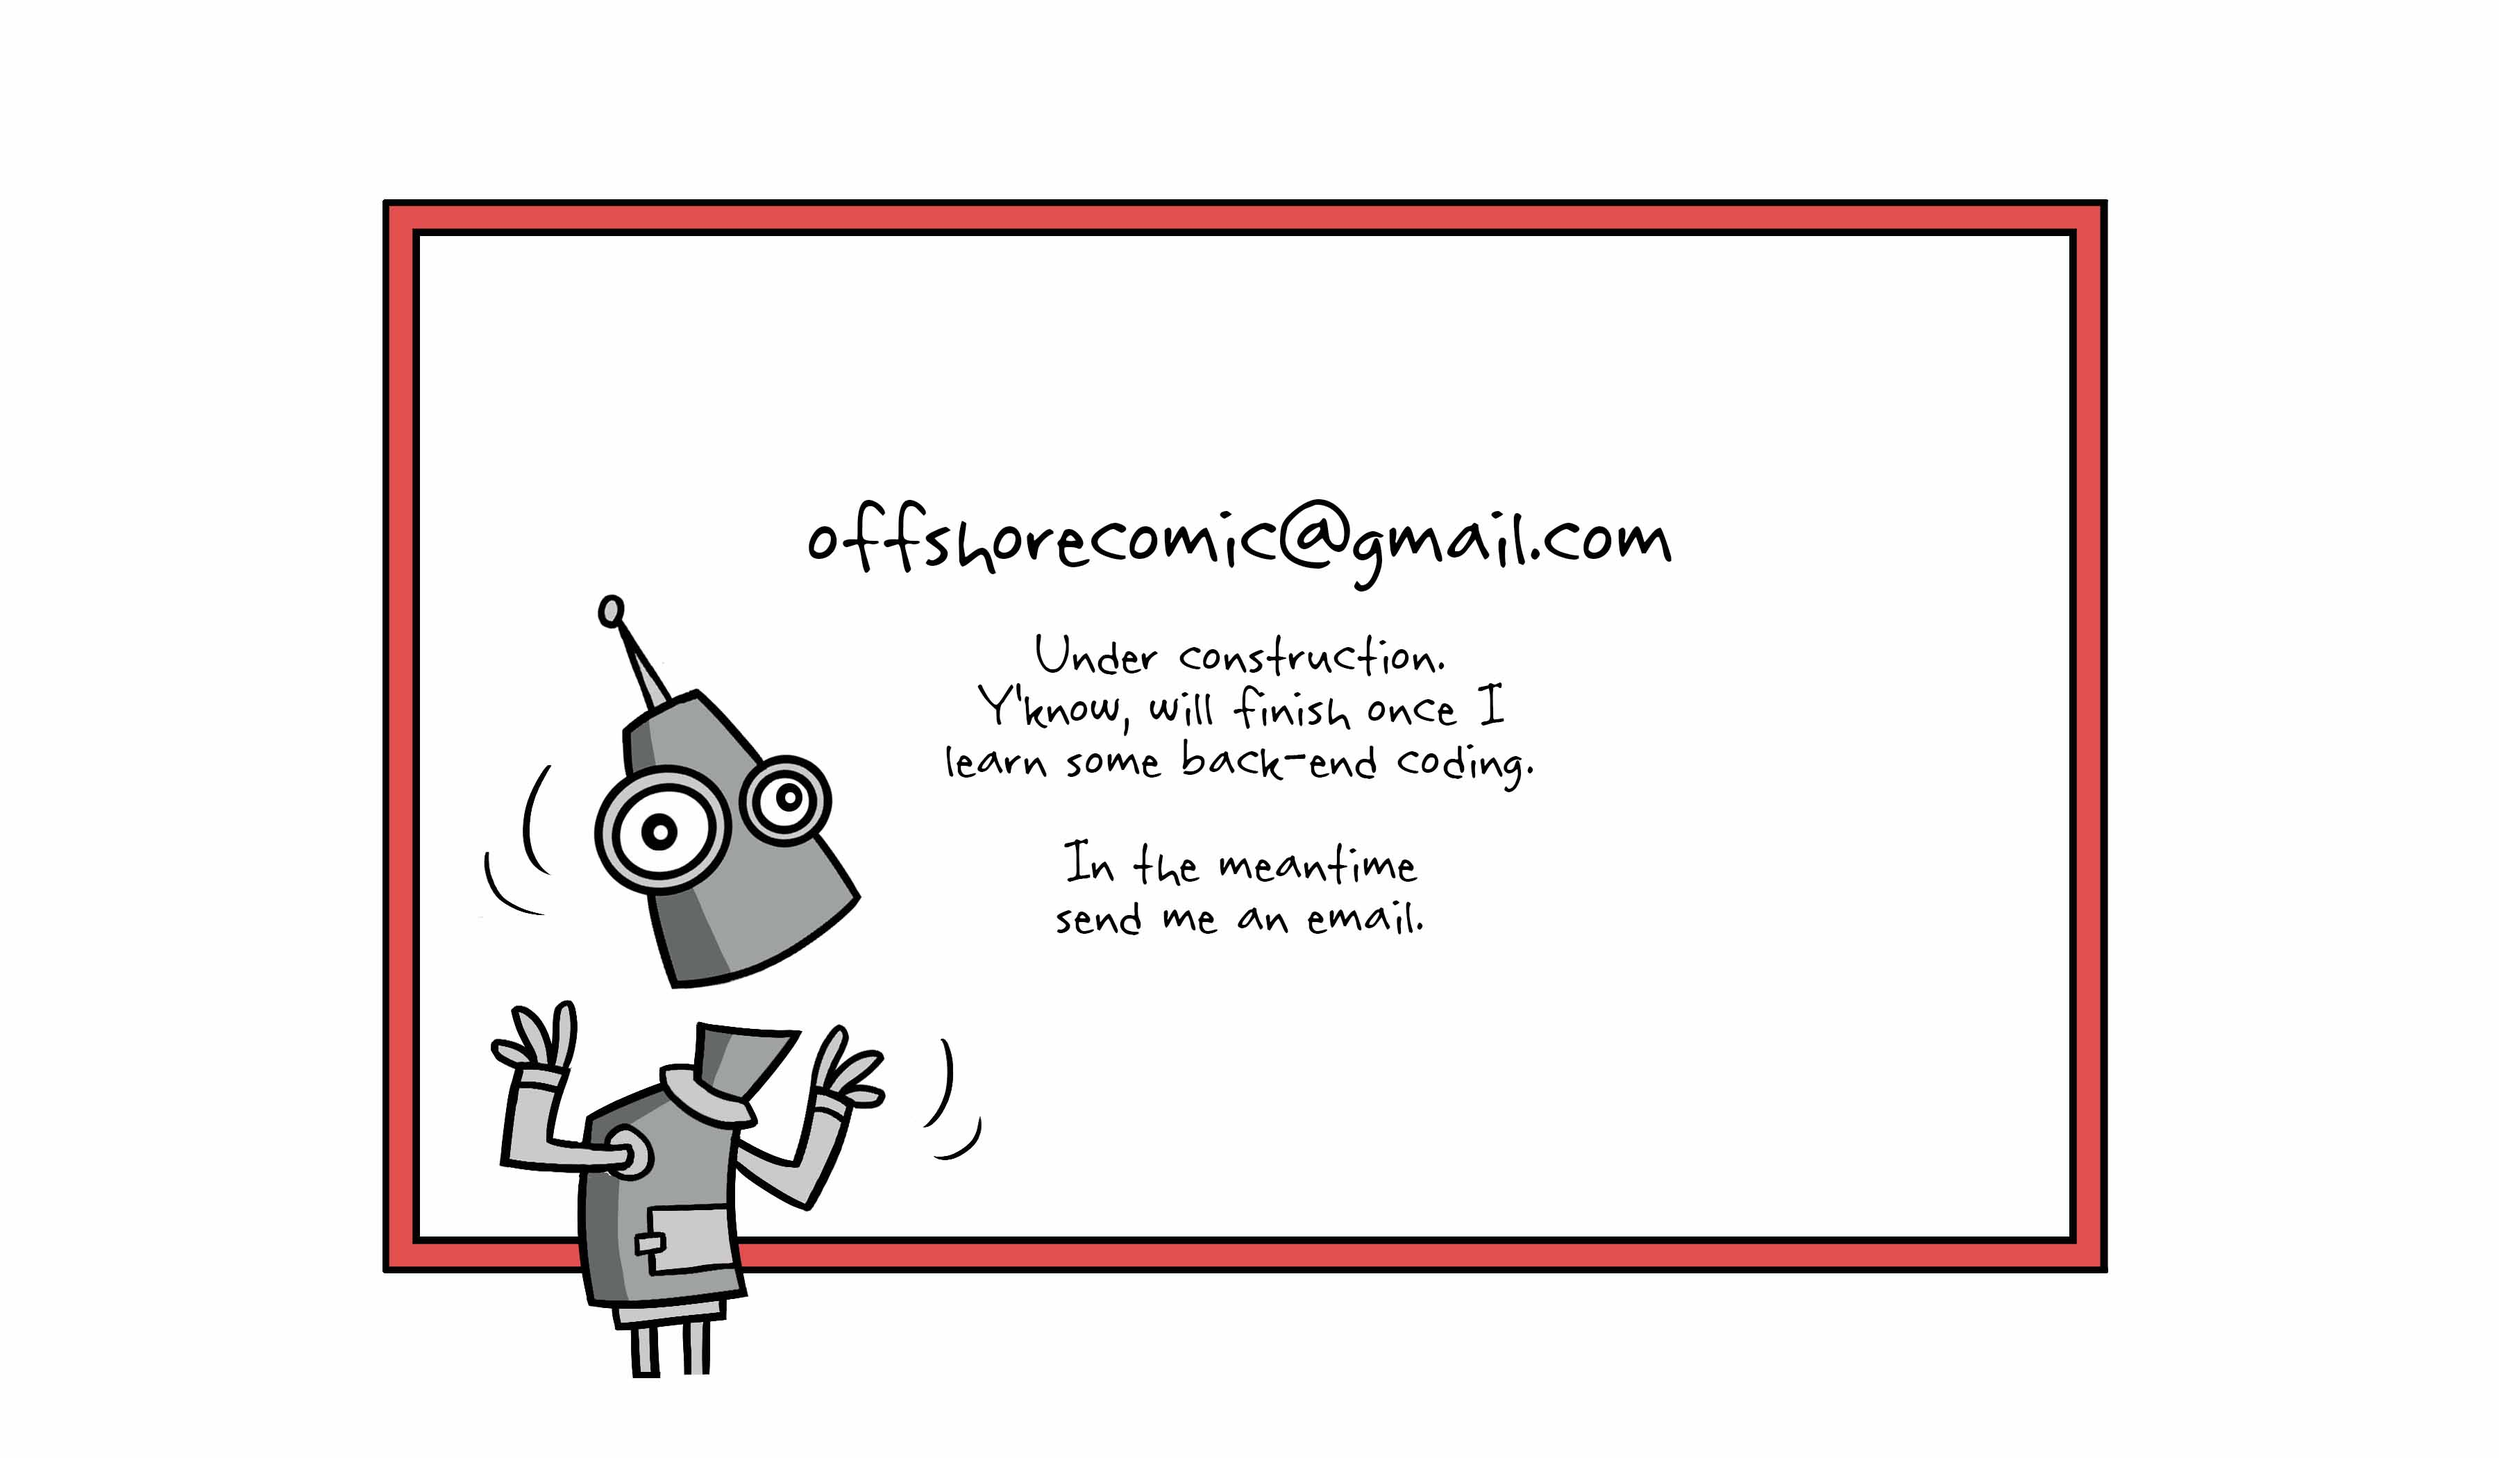
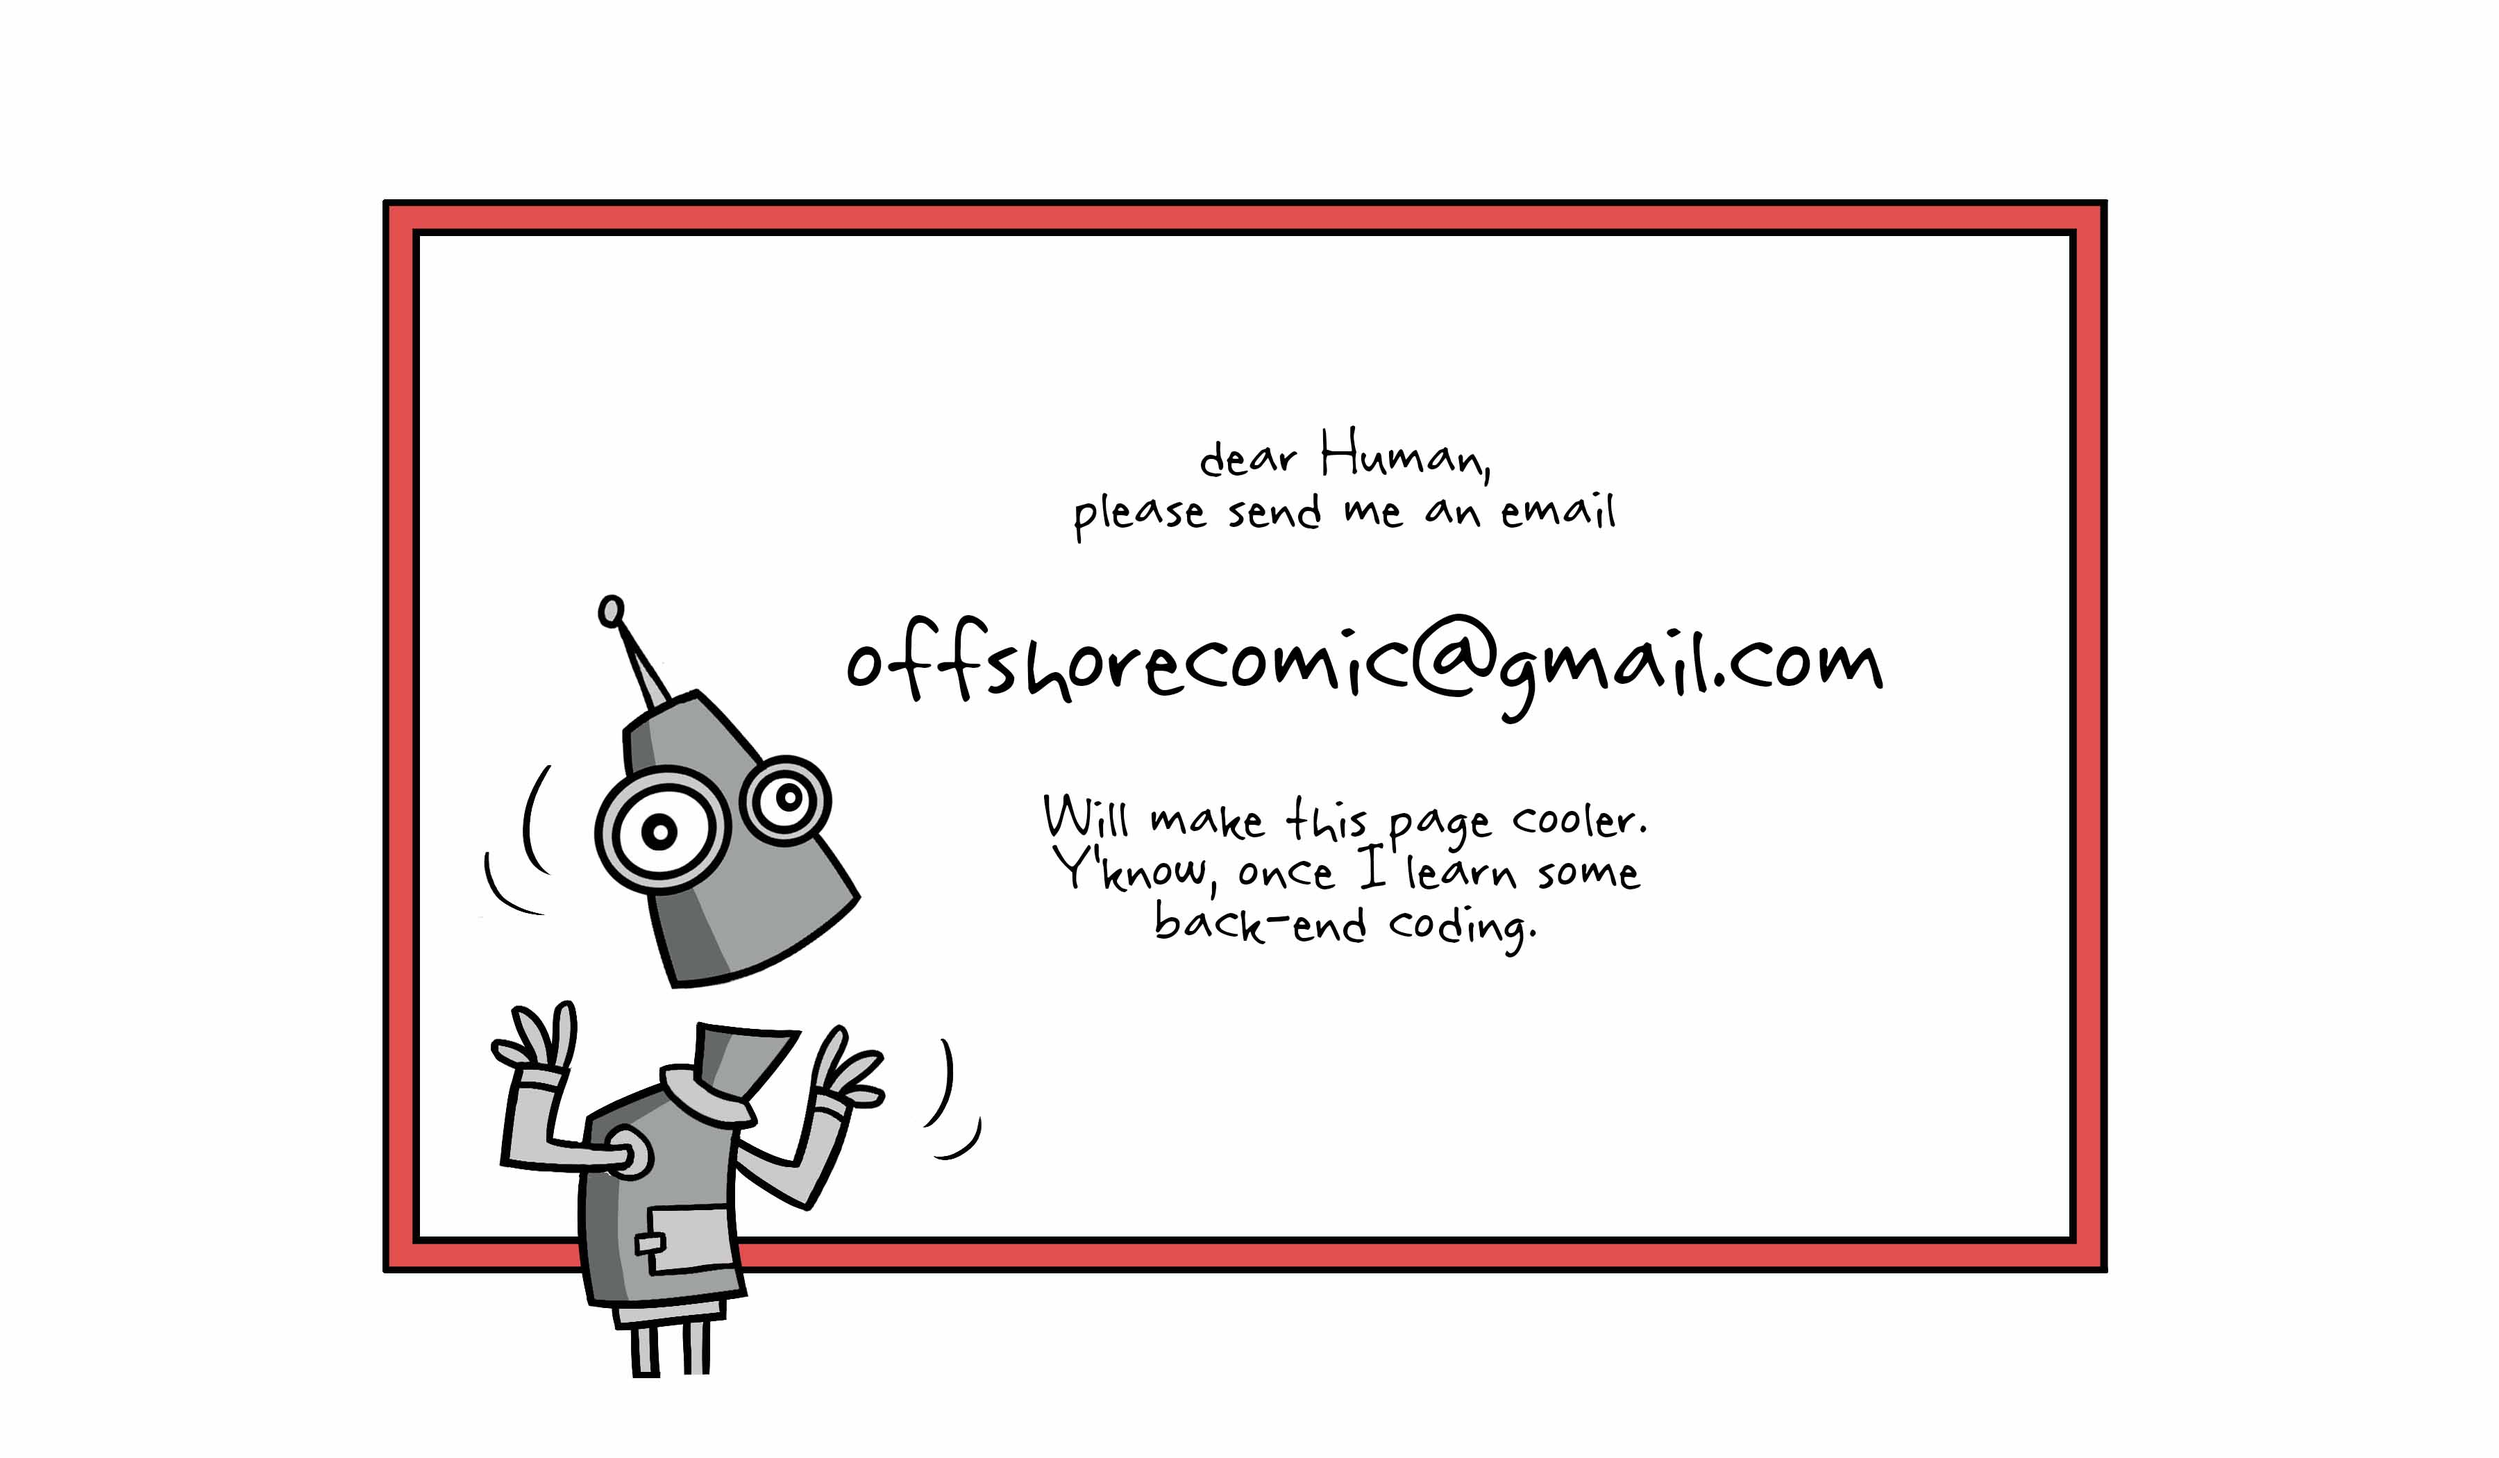
Added a new strip to the image file and updated JS and HTML accordingly.

Changed region(s): [[0.3422, 0.3095, 0.7467, 0.65]]

diff --git a/myscripts.js b/myscripts.js
@@ -1,4 +1,4 @@
-var Strips = ["images/S206.jpg","images/S205.jpg","images/S204.jpg","images/S203.jpg","images/S202.jpg","images/S201.jpg","images/S200.jpg","images/S199.jpg","images/S198.jpg","images/S197.jpg","images/S196.jpg","images/S195.jpg","images/S194.jpg","images/S193.jpg","images/S192.jpg","images/S191.jpg","images/S190.jpg","images/S189.jpg","images/S188.jpg","images/S187.jpg","images/S186.jpg","images/S185.jpg","images/S184.jpg","images/S183.jpg","images/S182.jpg","images/S181.jpg","images/S180.jpg","images/S179.jpg","images/S178.jpg","images/S177.jpg","images/S176.jpg","images/S175.jpg","images/S174.jpg","images/S173.jpg","images/S172.jpg","images/S171.jpg","images/S170.jpg","images/S169.jpg","images/S168.jpg","images/S167.jpg","images/S166.jpg","images/S165.jpg","images/S164.jpg","images/S163.jpg","images/S162.jpg","images/S161.jpg","images/S160.jpg","images/S159.jpg","images/S158.jpg","images/S157.jpg","images/S156.jpg","images/S155.jpg","images/S154.jpg","images/S153.jpg","images/S152.jpg","images/S151.jpg","images/S150.jpg","images/S149.jpg","images/S148.jpg","images/S147.jpg","images/S146.jpg","images/S145.jpg","images/S144.jpg","images/S143.jpg","images/S142.jpg","images/S141.jpg","images/S140.jpg","images/S139.jpg","images/S138.jpg","images/S137.jpg","images/S136.jpg","images/S135.jpg","images/S134.jpg","images/S133.jpg","images/S132.jpg","images/S131.jpg","images/S130.jpg","images/S129.jpg","images/S128.jpg","images/S127.jpg","images/S126.jpg","images/S125.jpg","images/S124.jpg","images/S123.jpg","images/S122.jpg","images/S121.jpg","images/S120.jpg","images/S119.jpg","images/S118.jpg","images/S117.jpg","images/S116.jpg","images/S115.jpg","images/S114.jpg","images/S113.jpg","images/S112.jpg","images/S111.jpg","images/S110.jpg","images/S109.jpg","images/S108.jpg","images/S107.jpg","images/S106.jpg","images/S105.jpg","images/S104.jpg","images/S103.jpg","images/S102.jpg","images/S101.jpg","images/S100.jpg","images/S99.jpg","images/S98.jpg","images/S97.jpg","images/S96.jpg","images/S95.jpg","images/S94.jpg","images/S93.jpg","images/S92.jpg","images/S91.jpg","images/S90.jpg","images/S89.jpg","images/S88.jpg","images/S87.jpg","images/S86.jpg","images/S85.jpg","images/S84.jpg","images/S83.jpg","images/S82.jpg","images/S81.jpg","images/S80.jpg","images/S79.jpg","images/S78.jpg","images/S77.jpg","images/S76.jpg","images/S75.jpg","images/S74.jpg","images/S73.jpg","images/S72.jpg","images/S71.jpg","images/S70.jpg","images/S69.jpg","images/S68.jpg","images/S67.jpg","images/S66.jpg","images/S65.jpg","images/S64.jpg","images/S63.jpg","images/S62.jpg","images/S61.jpg","images/S60.jpg","images/S59.jpg","images/S58.jpg","images/S57.jpg","images/S56.jpg","images/S55.jpg","images/S54.jpg","images/S53.jpg","images/S52.jpg","images/S51.jpg","images/S50.jpg","images/S49.jpg","images/S48.jpg","images/S47.jpg","images/S46.jpg","images/S45.jpg","images/S44.jpg","images/S43.jpg","images/S42.jpg","images/S41.jpg","images/S40.jpg","images/S39.jpg","images/S38.jpg","images/S37.jpg","images/S36.jpg","images/S35.jpg","images/S34.jpg","images/S33.jpg","images/S32.jpg","images/S31.jpg","images/S30.jpg","images/S29.jpg","images/S28.jpg","images/S27.jpg","images/S26.jpg","images/S25.jpg","images/S24.jpg","images/S23.jpg","images/S22.jpg","images/S21.jpg","images/S20.jpg","images/S19.jpg","images/S18.jpg","images/S17.jpg","images/S16.jpg","images/S15.jpg","images/S14.jpg","images/S13.jpg","images/S12.jpg","images/S11.jpg","images/S10.jpg","images/S9.jpg","images/S8.jpg","images/S7.jpg","images/S6.jpg","images/S5.jpg","images/S4.jpg","images/S3.jpg","images/S2.jpg","images/S1.jpg"];
+var Strips = ["images/S207.jpg","images/S206.jpg","images/S205.jpg","images/S204.jpg","images/S203.jpg","images/S202.jpg","images/S201.jpg","images/S200.jpg","images/S199.jpg","images/S198.jpg","images/S197.jpg","images/S196.jpg","images/S195.jpg","images/S194.jpg","images/S193.jpg","images/S192.jpg","images/S191.jpg","images/S190.jpg","images/S189.jpg","images/S188.jpg","images/S187.jpg","images/S186.jpg","images/S185.jpg","images/S184.jpg","images/S183.jpg","images/S182.jpg","images/S181.jpg","images/S180.jpg","images/S179.jpg","images/S178.jpg","images/S177.jpg","images/S176.jpg","images/S175.jpg","images/S174.jpg","images/S173.jpg","images/S172.jpg","images/S171.jpg","images/S170.jpg","images/S169.jpg","images/S168.jpg","images/S167.jpg","images/S166.jpg","images/S165.jpg","images/S164.jpg","images/S163.jpg","images/S162.jpg","images/S161.jpg","images/S160.jpg","images/S159.jpg","images/S158.jpg","images/S157.jpg","images/S156.jpg","images/S155.jpg","images/S154.jpg","images/S153.jpg","images/S152.jpg","images/S151.jpg","images/S150.jpg","images/S149.jpg","images/S148.jpg","images/S147.jpg","images/S146.jpg","images/S145.jpg","images/S144.jpg","images/S143.jpg","images/S142.jpg","images/S141.jpg","images/S140.jpg","images/S139.jpg","images/S138.jpg","images/S137.jpg","images/S136.jpg","images/S135.jpg","images/S134.jpg","images/S133.jpg","images/S132.jpg","images/S131.jpg","images/S130.jpg","images/S129.jpg","images/S128.jpg","images/S127.jpg","images/S126.jpg","images/S125.jpg","images/S124.jpg","images/S123.jpg","images/S122.jpg","images/S121.jpg","images/S120.jpg","images/S119.jpg","images/S118.jpg","images/S117.jpg","images/S116.jpg","images/S115.jpg","images/S114.jpg","images/S113.jpg","images/S112.jpg","images/S111.jpg","images/S110.jpg","images/S109.jpg","images/S108.jpg","images/S107.jpg","images/S106.jpg","images/S105.jpg","images/S104.jpg","images/S103.jpg","images/S102.jpg","images/S101.jpg","images/S100.jpg","images/S99.jpg","images/S98.jpg","images/S97.jpg","images/S96.jpg","images/S95.jpg","images/S94.jpg","images/S93.jpg","images/S92.jpg","images/S91.jpg","images/S90.jpg","images/S89.jpg","images/S88.jpg","images/S87.jpg","images/S86.jpg","images/S85.jpg","images/S84.jpg","images/S83.jpg","images/S82.jpg","images/S81.jpg","images/S80.jpg","images/S79.jpg","images/S78.jpg","images/S77.jpg","images/S76.jpg","images/S75.jpg","images/S74.jpg","images/S73.jpg","images/S72.jpg","images/S71.jpg","images/S70.jpg","images/S69.jpg","images/S68.jpg","images/S67.jpg","images/S66.jpg","images/S65.jpg","images/S64.jpg","images/S63.jpg","images/S62.jpg","images/S61.jpg","images/S60.jpg","images/S59.jpg","images/S58.jpg","images/S57.jpg","images/S56.jpg","images/S55.jpg","images/S54.jpg","images/S53.jpg","images/S52.jpg","images/S51.jpg","images/S50.jpg","images/S49.jpg","images/S48.jpg","images/S47.jpg","images/S46.jpg","images/S45.jpg","images/S44.jpg","images/S43.jpg","images/S42.jpg","images/S41.jpg","images/S40.jpg","images/S39.jpg","images/S38.jpg","images/S37.jpg","images/S36.jpg","images/S35.jpg","images/S34.jpg","images/S33.jpg","images/S32.jpg","images/S31.jpg","images/S30.jpg","images/S29.jpg","images/S28.jpg","images/S27.jpg","images/S26.jpg","images/S25.jpg","images/S24.jpg","images/S23.jpg","images/S22.jpg","images/S21.jpg","images/S20.jpg","images/S19.jpg","images/S18.jpg","images/S17.jpg","images/S16.jpg","images/S15.jpg","images/S14.jpg","images/S13.jpg","images/S12.jpg","images/S11.jpg","images/S10.jpg","images/S9.jpg","images/S8.jpg","images/S7.jpg","images/S6.jpg","images/S5.jpg","images/S4.jpg","images/S3.jpg","images/S2.jpg","images/S1.jpg"];
 
 var Current = 0;
 var myStrip = null;

diff --git a/index.html b/index.html
@@ -38,7 +38,7 @@
 		<div class="wrapper6">
 			<div class="wrap-item61"><img src="images/2017_Offshorecomics_web_Today's Offshorecomic.jpg"/></div>
 		</div>
-		<div class="wrap-item1"><img src="images/S206.jpg" id="Strip"/></div>
+		<div class="wrap-item1"><img src="images/S207.jpg" id="Strip"/></div>
 		<div class="wrapper3">
 			<div class="wrap-item3">
 			<button class="button" onClick="Last();">&lsaquo;&lsaquo;</button>
